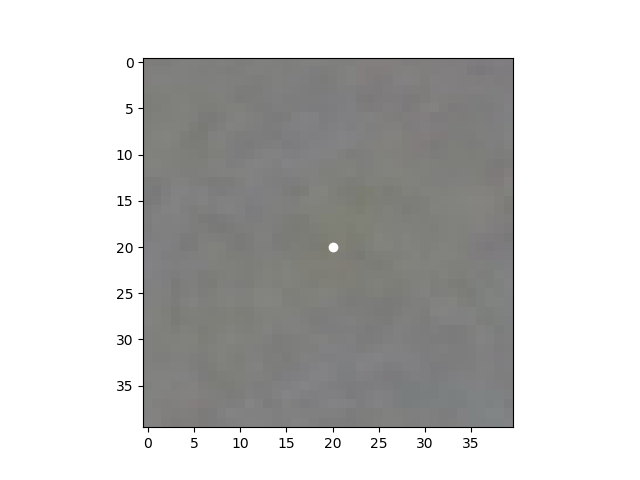
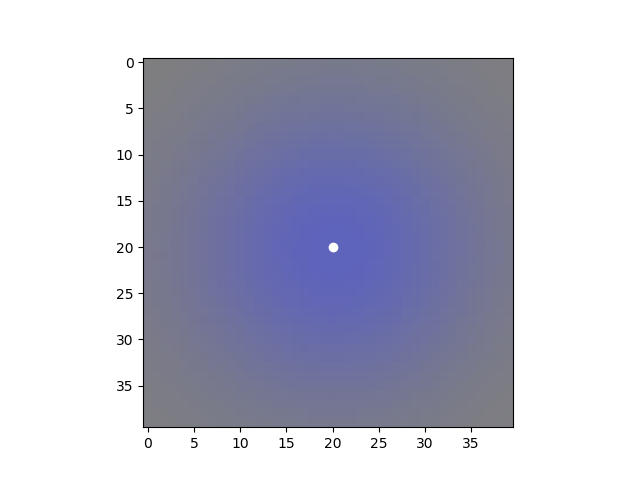
fix color contrasting

Changed region(s): [[0.25, 0.1875, 0.7812, 0.8438]]

diff --git a/direct_calibration.py b/direct_calibration.py
@@ -31,7 +31,7 @@ def get_me_some_correspondances(kinect, project, x_res=1366, y_res=768, padding=
     delta_image = color_im[..., :3] / 255.0 - base_im[..., :3] / 255.0
     delta_image_blur = gaussian_filter(delta_image, [gauss_filter_width, gauss_filter_width, 0])
 
-    high_contrast_image = np.dot(delta_image_blur, np.eye(3) - 1)
+    high_contrast_image = np.dot(delta_image_blur, np.eye(3) * 3 - 1)
     amaxs = np.argmax(np.reshape(high_contrast_image, [-1, 3]), 0)
     cam_locs = np.stack(np.unravel_index(amaxs, high_contrast_image.shape[:2]), -1)
 
@@ -63,6 +63,9 @@ for i in range(20):
     all_proj_locs.append(proj_locs)
 
     print(cam_locs)
+
+    plt.imshow(im)
+    plt.show()
 
     for cl in cam_locs:
         plt.imshow(im[int(cl[1])-20:int(cl[1])+20, int(cl[0])-20:int(cl[0])+20])
